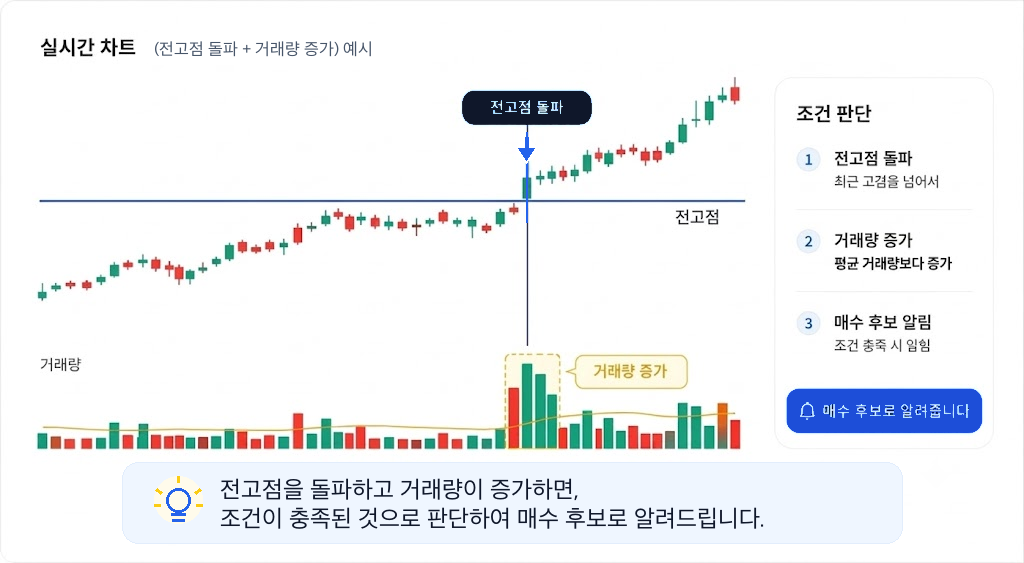
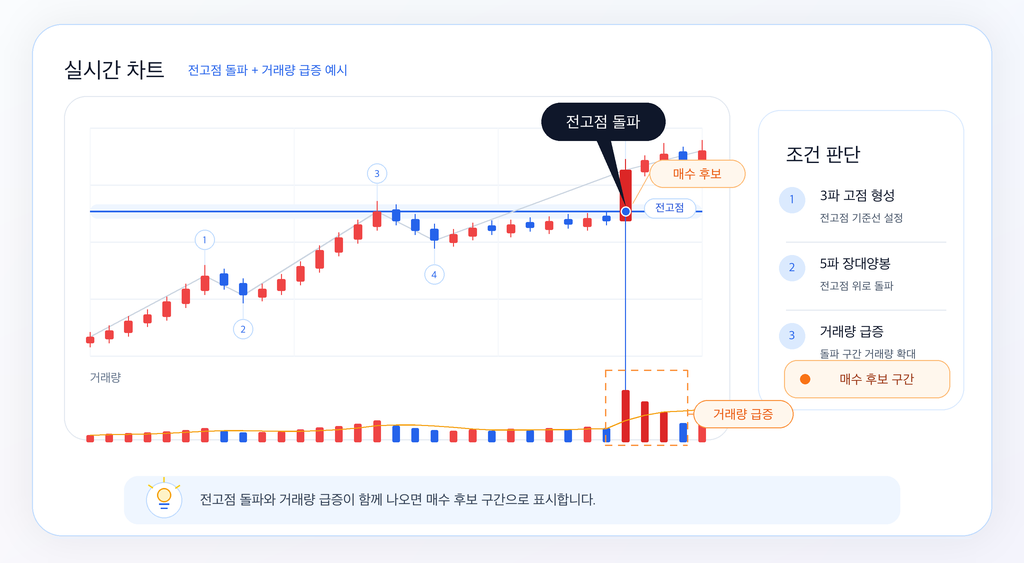
Add files via upload

diff --git a/index.html b/index.html
@@ -278,7 +278,7 @@
           <p>예를 들어 전고점 돌파와 거래량 증가가 함께 발생하면 매수 후보 알림으로 이어지는 식입니다.</p>
         </div>
         <figure class="qw-chart-image-card reveal reveal-delay-1">
-          <img src="./asset/po.png" alt="전고점 돌파와 거래량 증가 조건 예시 차트" loading="lazy" decoding="async" />
+          <img src="./asset/po.png?v=20260615-balanced-breakout-1" alt="전고점 돌파와 거래량 급증 조건 예시 차트" loading="lazy" decoding="async" />
         </figure>
       </div>
     </section>